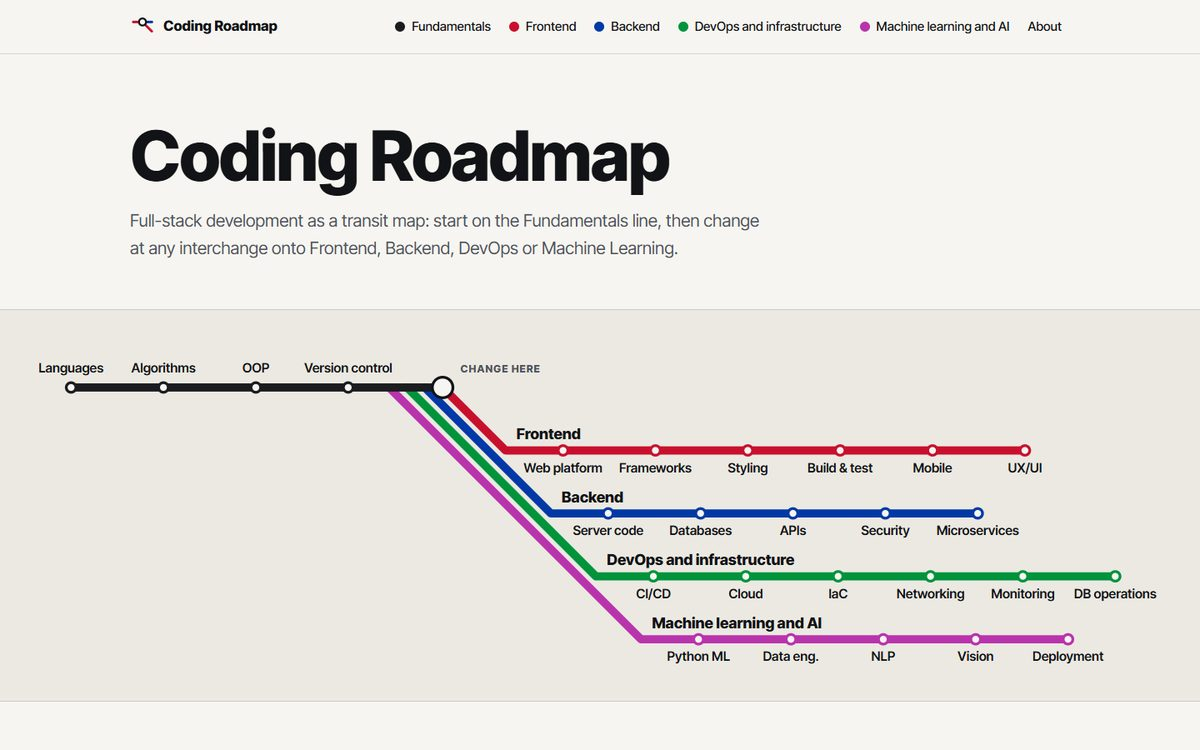
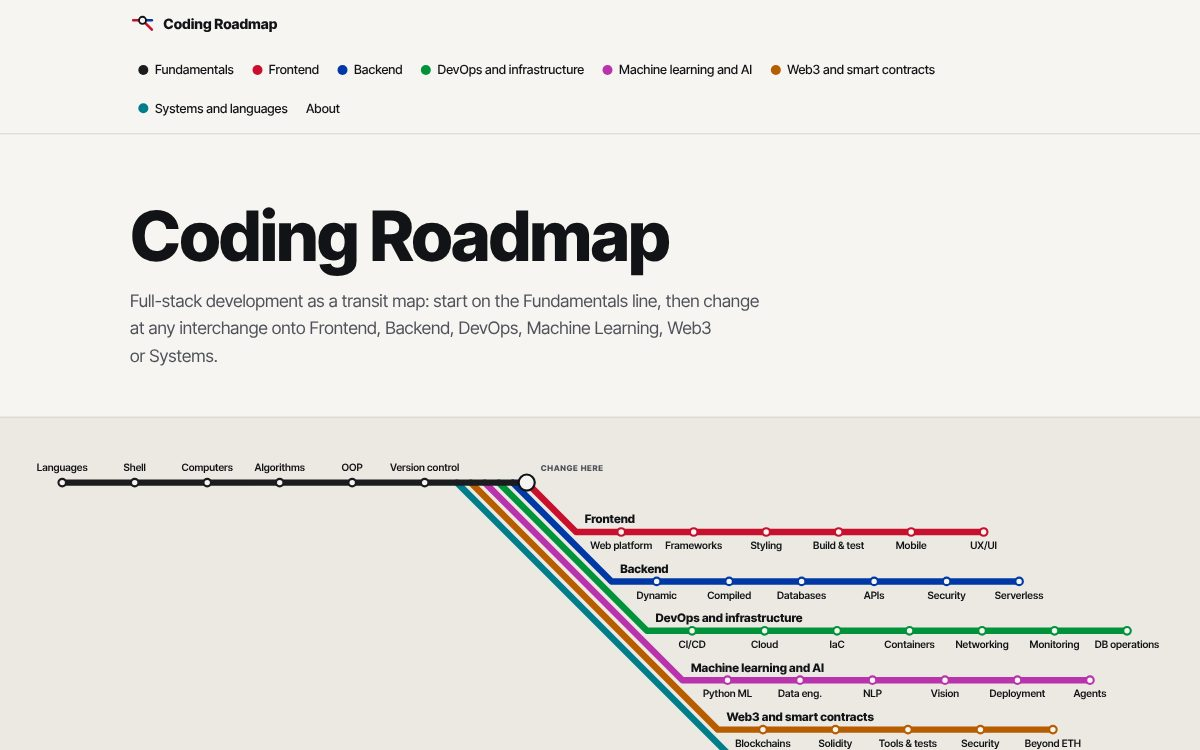
Coding Roadmap card: six branches, refreshed image
Claude-Session: https://claude.ai/code/session_01Sp4uVaSfPTnARaHZUQe5XT

diff --git a/site/index.html b/site/index.html
@@ -346,7 +346,7 @@
             <span class="meta">
               <span class="plate">No. 23</span>
               <span class="title" id="t-coding-roadmap">Coding Roadmap</span>
-              <span class="line">Full-stack development drawn as a transit map: one trunk line, four branch lines, every tool linked to its docs.</span>
+              <span class="line">Development drawn as a transit map: one trunk line and six branches, from frontend to systems, with every tool linked to its official docs and the hands-on guides beside them.</span>
               <span class="go" id="g-coding-roadmap">Visit codingroadmap.shadw.app<span class="sr-only"> (opens in a new tab)</span></span>
             </span>
           </a>
